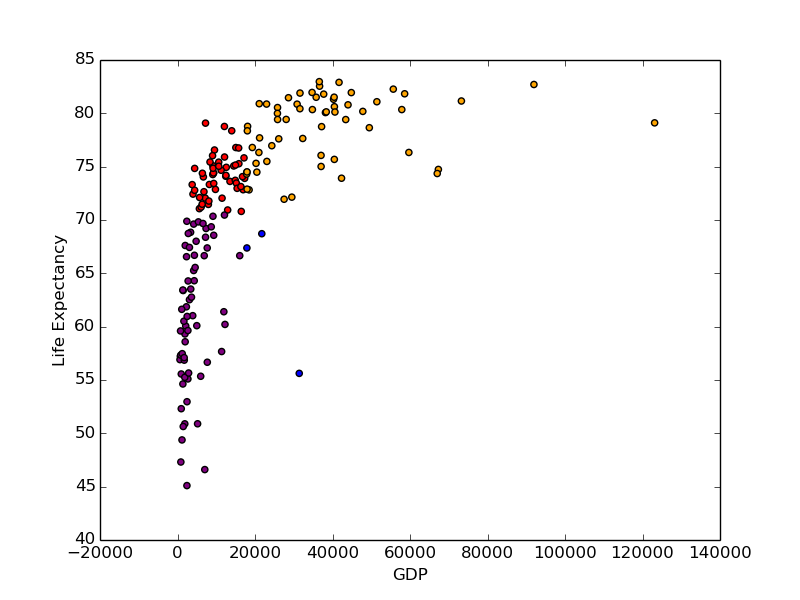
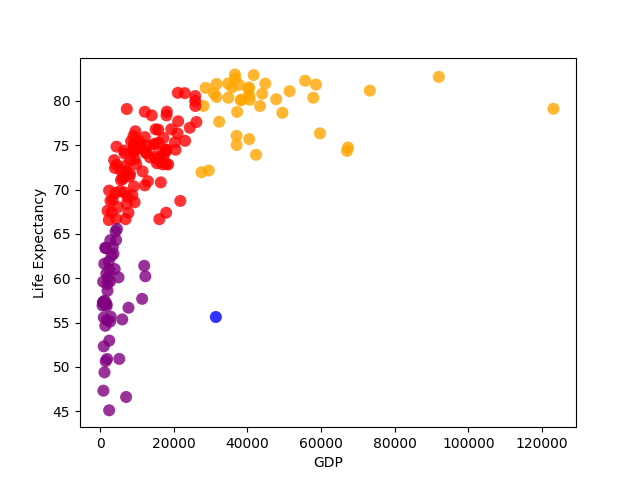
add task_b colors

diff --git a/assignment1/src/task_b.py b/assignment1/src/task_b.py
@@ -40,14 +40,14 @@ life_std = np.std(merged_entries[LIFE])
 life_mean = np.mean(merged_entries[LIFE])
 
 #    GDP MEAN
-#       |
-# ------|------ LIFE MEAN
-#       |
+#  red   | orange
+# -------|------- LIFE MEAN
+# purple | blue
 
 col = np.where(
-    merged_entries[LIFE] > life_mean,
-    np.where(merged_entries[GDP] < gdp_mean, "red", "orange"),
-    np.where(merged_entries[GDP] < gdp_mean, "purple", "blue"),
+    merged_entries[LIFE] > life_mean - life_std * STD_CONSTANT,
+    np.where(merged_entries[GDP] < gdp_mean + gdp_std * STD_CONSTANT, "red", "orange"),
+    np.where(merged_entries[GDP] < gdp_mean + gdp_std * STD_CONSTANT, "purple", "blue"),
 )
 
 fig, ax = plt.subplots()
@@ -66,7 +66,7 @@ scatter = ax.scatter(
 # plt.legend()
 plt.xlabel("GDP")
 plt.ylabel("Life Expectancy")
-# plt.savefig("../fig/gdp_life_b.png")
+plt.savefig("../fig/gdp_life_b.png")
 plt.show()
 
 # filter based on having high life-expectancy

diff --git a/assignment1/report.md b/assignment1/report.md
@@ -6,8 +6,9 @@
 
 - We selected year 2010
 
-![img](fig/gdp_life.png)
+### Plot
 
+![img](fig/gdp_life.png)
 
 ## Question A
 
@@ -17,51 +18,48 @@ The countries that in 2010 had a life expectancy higher than one standard deviat
 - Anguilla
 - Australia
 - Austria
-- Belgium 
-- Bermuda 
+- Belgium
+- Bermuda
 - Canada
-- Cayman Islands 
-- Channel Islands 
-- Falkland Islands 
-- Finland 
+- Cayman Islands
+- Channel Islands
+- Falkland Islands
+- Finland
 - France
-- Germany 
+- Germany
 - Greece
-- Hong Kong 
-- Iceland 
-- Ireland 
-- Isle of Man 
+- Hong Kong
+- Iceland
+- Ireland
+- Isle of Man
 - Israel
-- Italy 
-- Japan 
-- Liechtenstein 
-- Luxembourg 
-- Macao 
-- Malta 
+- Italy
+- Japan
+- Liechtenstein
+- Luxembourg
+- Macao
+- Malta
 - Martinique
-- Monaco 
-- Netherlands 
-- New Zealand 
-- Norway 
+- Monaco
+- Netherlands
+- New Zealand
+- Norway
 - San Marino
 - Singapore
 - South Korea
 - Spain
 - Sweden
-- Switzerland 
+- Switzerland
 - United Kingdom
-
-
 
 <!--- Consider whether the results obtained seem
 reasonable -->
 
-
 ## Question B
 
-We assume that a country has a low GDP if the the GDP is lower than one standard deviation below the mean. 
+We assume that a country has a low GDP if the the GDP is lower than one standard deviation below the mean.
 
-We assume that a high life expectancy is higher than one standard deviation above the mean. 
+We assume that a high life expectancy is higher than one standard deviation above the mean.
 
 Using these assumptions, the countries that have high life expectancy but low GDP are:
 
@@ -73,7 +71,7 @@ reasonable -->
 
 ## Question C
 
-We assume that a GDP higher than one standard deviation above the mean indicates a strong economy. 
+We assume that a GDP higher than one standard deviation above the mean indicates a strong economy.
 
 Using this assumption and the previously stated assumption about a high life expectancy, the countries that have a strong economy, but not a high life expectancy, are:
 
@@ -89,7 +87,6 @@ Using this assumption and the previously stated assumption about a high life exp
 - United Arab Emirates
 - United States
 
-
 <!--- Motivera varför våra assumptions är rimliga? --->
 <!--- Consider whether the results obtained seem
 reasonable -->
@@ -103,14 +100,13 @@ We removed:
 
 <!--- Något om att vi funderade på att ta bort alla rader som ej blev "utvalda" av varken task A, task B, task C ? --->
 
-
 # Task 2
 
 ## Annual working hours per person vs Happiness
 
 ![img](fig/working-hours-happiness.png)
 
-The graph shows that there is some correlation between how much you work and your happiness. It seems reasonable that the amount of work would affect the happiness as with more work you won't have as much spare time to do things you enjoy and like.  Of course, there are also many other factors that affects one's happiness, but it still seems reasonable that there are at least a weak causation between amount of work and happiness. 
+The graph shows that there is some correlation between how much you work and your happiness. It seems reasonable that the amount of work would affect the happiness as with more work you won't have as much spare time to do things you enjoy and like. Of course, there are also many other factors that affects one's happiness, but it still seems reasonable that there are at least a weak causation between amount of work and happiness.
 
 <!--- Eventuellt något om att working hours inte tar med  arbetslösa? Många som jobbar 0 timmar är förmodligen inte glada? --->
 
